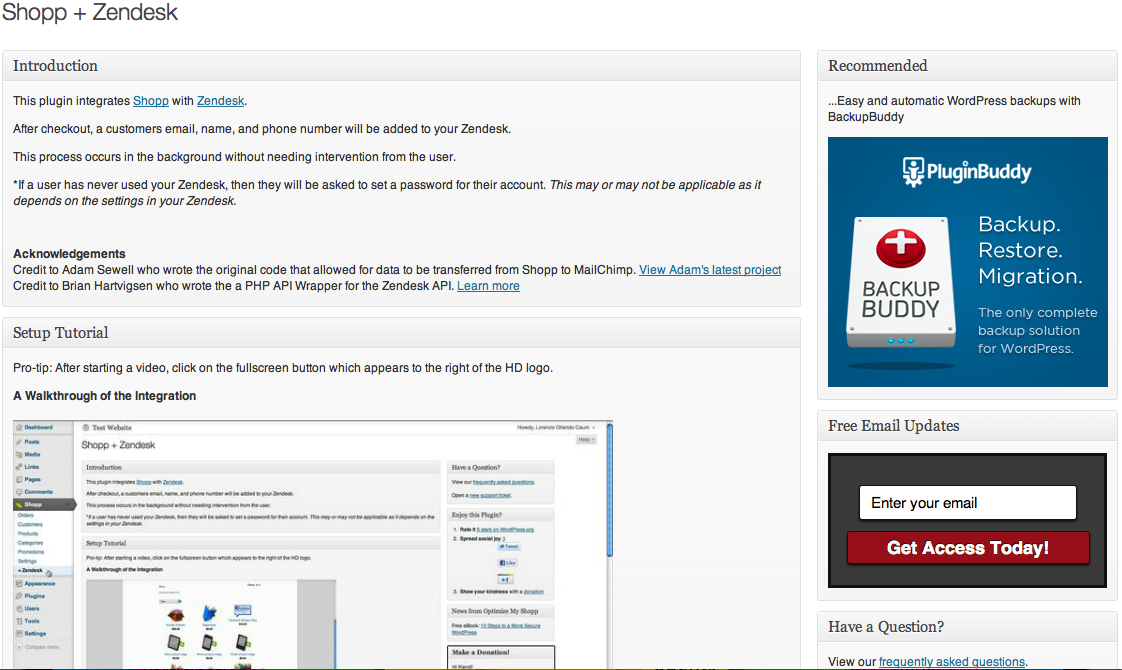
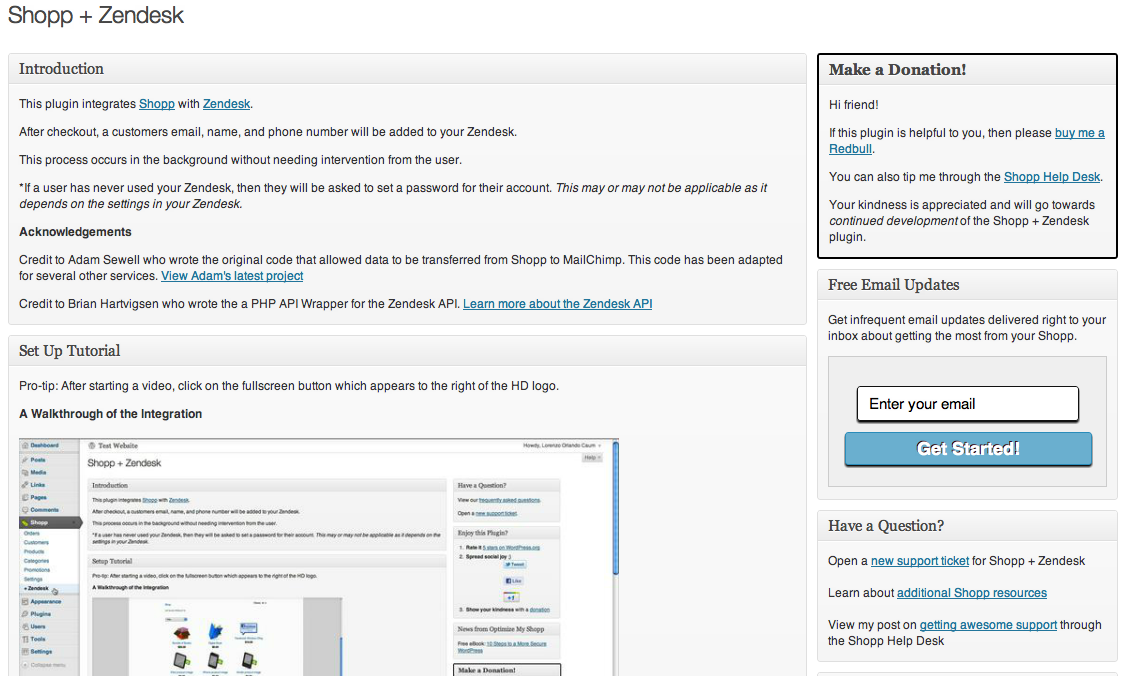
tagging version 1.0.2 of Shopp + Zendesk
git-svn-id: https://plugins.svn.wordpress.org/shopp-zendesk/trunk@538745 b8457f37-d9ea-0310-8a92-e5e31aec5664

diff --git a/css/shopp-zendesk.css b/css/shopp-zendesk.css
@@ -16,39 +16,44 @@ div.inside ul, div.inside ol {
 }
 
 #optin {
-	background: #393939 url(images/dark.png) repeat-x top;
-	border: 3px solid #111;
-	color: #fff;
+	background: #EFEFEF;
+	border: 1px solid #CCCCCC;
+	color: #000000;
 	padding: 20px 15px;
 	text-align: center;
 }
-	#optin p { margin: 8px 0 0 }
-	#optin input {
-		border-radius: 3px;
-		-moz-border-radius: 3px;
-		-webkit-border-radius: 3px;
-		box-shadow: 0 2px 2px #111;
-		-moz-box-shadow: 0 2px 2px #111;
-		-webkit-box-shadow: 0 2px 2px #111
-	}
-		#optin input[type="text"] {
-			border: 1px solid #111;
-			font-size: 15px;
-			margin-bottom: 10px;
-			padding: 8px 10px;
-			width: 90%
-		}
-		#optin input.email { background: #fff url(images/email.png) no-repeat center right }
-		#optin input.name { background: #fff url(images/name.png) no-repeat center right }
-		#optin input[type="submit"] {
-			background: #960e17 url(images/red.png) repeat-x top;
-			border: 1px solid #111;
-			color: #fff;
-			cursor: pointer;
-			font-size: 18px;
-			font-weight: bold;
-			padding: 8px 0;
-			text-shadow: -1px -1px #3a060a;
-			width: 100%
-		}
-			#optin input[type="submit"]:hover { color: #ffa5a5 }
+
+#optin p { margin: 8px 0 0 }
+
+#optin input {
+	border-radius: 3px;
+	-moz-border-radius: 3px;
+	-webkit-border-radius: 3px;
+	box-shadow: 0 2px 2px #111;
+	-moz-box-shadow: 0 2px 2px #111;
+	-webkit-box-shadow: 0 2px 2px #111
+}
+
+#optin input[type="text"] {
+	border: 1px solid #111;
+	font-size: 15px;
+	margin-bottom: 10px;
+	padding: 8px 10px;
+	width: 90%
+}
+
+#optin input.email { background-color: #fff }
+#optin input.name { background-color: #fff }
+#optin input[type="submit"] {
+	background-color: #6AAFCF;
+	border: 1px solid #2A8CBA;
+	color: #fff;
+	cursor: pointer;
+	font-size: 18px;
+	font-weight: bold;
+	padding: 8px 0;
+	text-shadow: -1px -1px #3a060a;
+	width: 100%
+}
+
+#optin input[type="submit"]:hover { background-color: #f0a000; 	border-color: #c87800;}

diff --git a/shopp-zendesk.php b/shopp-zendesk.php
@@ -2,13 +2,13 @@
 /*
 Plugin Name: Shopp + Zendesk
 Description: Customers who order from your WordPress e-commerce store are added to your Zendesk help desk after checkout.
-Version: 1.0.1
-Plugin URI: http://optimizemyshopp.com/blog/
+Version: 1.0.2
+Plugin URI: http://optimizemyshopp.com/
 Author: Lorenzo Orlando Caum, Enzo12 LLC
 Author URI: http://enzo12.com
 License: GPLv2
 */
-/* (CC BY 3.0) 2011  Lorenzo Orlando Caum  (email : hello@enzo12.com)
+/* (CC BY 3.0) 2012  Lorenzo Orlando Caum  (email : hello@enzo12.com)
 
 	This plugin is free software: you can redistribute it and/or modify
 	it under the terms of the GNU General Public License as published by
@@ -171,7 +171,7 @@ class Shopp_Zendesk {
    					 	<tr>
      						<td width="70%"><div><img style="padding: 5px 10px 0px 0px; float:left" src="http://cdn.lorenzocaum.com/wp-content/uploads/2011/01/lorenzo-orlando-caum.jpg" border="0" alt="Founder of Enzo12 LLC" width="115" height="160"><p><a href="http://twitter.com/lorenzocaum" >@lorenzocaum</a> is an entrepreneur and a marketer. <br><br>Lorenzo is the founder of Enzo12 LLC, a <a href="http://enzo12.com" title="Enzo12 LLC">web engineering firm</a> <br />in Tampa, FL. He is a graduate from the College of Business at the <br />University of South Florida. <br><br>Lorenzo contributes to the <a href="http://optimizemyshopp.com/go/shopp/" title="Learn more about Shopp">Shopp</a> project as a customer support rep.<br><br>He also has a <a href="http://lorenzocaum.com" title="Read Lorenzo's blog">business, marketing, and technology blog</a>.</p></div></td>
     					  <td width="30%"><div id="optin">
-						<Big>Get Free Email Updates</Big>
+						<Big>Get Free Email Updates about using Shopp</Big>
 						<form action="http://optimizemyshopp.us2.list-manage1.com/subscribe/post?u=5991854e8288cad7823e23d2e&amp;id=0719c3f096" method="post" target="_blank">
 						<p>
 						<input type="text" name="EMAIL" class="email" value="Enter your email" onfocus="if(this.value==this.defaultValue)this.value='';" onblur="if(this.value=='')this.value=this.defaultValue;" />
@@ -201,7 +201,7 @@ class Shopp_Zendesk {
 			<div id="shopp-zendesk-subscribe" class="postbox">
 				<h3 class="hndle"><span>Free Email Updates</span></h3>
 				<div class="inside">
-					<p>Get infrequent email updates delivered right to your inbox.</p>
+					<p>Get infrequent email updates delivered right to your inbox about getting the most from your Shopp.</p>
 					<p><div id="optin">
 					<form action="http://optimizemyshopp.us2.list-manage1.com/subscribe/post?u=5991854e8288cad7823e23d2e&amp;id=0719c3f096" method="post" target="_blank">
 					<p>
@@ -248,16 +248,14 @@ class Shopp_Zendesk {
 				<div class="inside"><p>Free eBook<br /> <a href="http://optimizemyshopp.com/the-list/" title="Receive your free eBook delivered instantly to your inbox">10 Steps to a More Secure WordPress</a></p>
 				<p>White Papers<br /> <a href="http://optimizemyshopp.com/resources/white-papers/" title="Get your free white paper on creating a fast Shopp website">Speeding up your Shopp Ecommerce Website</a><br /><a href="http://optimizemyshopp.com/resources/white-papers/" title="Get your free white paper on using Shopp with caching plugins">Shopp + Caching Plugins</a></p>
 				<?php _e('Recent posts from the blog:'); ?>
-				<?php // Get RSS Feed(s)
+				<?php
 				include_once(ABSPATH . WPINC . '/feed.php');
 
-				// Get a SimplePie feed object from the specified feed source.
 				$rss = fetch_feed('http://feeds.feedburner.com/optimizemyshopp');
-				if (!is_wp_error( $rss ) ) : // Checks that the object is created correctly 
-    			// Figure out how many total items there are, but limit it to 5. 
+				if (!is_wp_error( $rss ) ) : 
+
     			$maxitems = $rss->get_item_quantity(7); 
 
-    			// Build an array of all the items, starting with element 0 (first element).
     			$rss_items = $rss->get_items(0, $maxitems); 
 				endif;
 				?>
@@ -265,7 +263,7 @@ class Shopp_Zendesk {
 				<ul>
     			<?php if ($maxitems == 0) echo '<li>No items.</li>';
     			else
-    			// Loop through each feed item and display each item as a hyperlink.
+
     			foreach ( $rss_items as $item ) : ?>
     			<li>
         		<a href='<?php echo esc_url( $item->get_permalink() ); ?>'
@@ -280,8 +278,8 @@ class Shopp_Zendesk {
 			<div id="shopp-zendesk-recommendations" class="postbox">
 				<h3 class="hndle"><span>Recommended</span></h3>
 				<div class="inside">
-					<p>...Easy and automatic WordPress backups with BackupBuddy</p>
-					<p><a href="http://optimizemyshopp.com/go/backupbuddy/"><img src="http://ithemes.com/graphics/backupbuddy_sidebarad.png" border=0 alt="Backup WordPress Easily" ></a></p>	
+					<p>Need a fresh pair of eyes to review your WordPress e-commerce site? You should order a WordPress e-commerce site analysis today! <a href="http://optimizemyshopp.com/store/wordpress-ecommerce-site-analysis/" title="Learn more about our site review">Learn more</a></p>
+					<p>What do you think about video tutorials for Shopp? <a href="http://shoppcreators.com" title="Learn more about Shopp video tutorials">Learn more</a></p>
 				</div>
 			</div>
 
